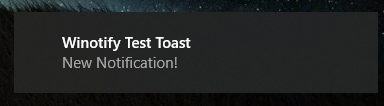
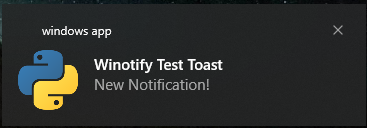
update readme and documentation

Changed region(s): [[0.0, 0.0, 1.0, 0.9906], [0.0899, 0.1981, 0.3297, 0.3113], [0.8992, 0.1981, 0.9591, 0.283]]

diff --git a/winotify/__init__.py b/winotify/__init__.py
@@ -1,6 +1,5 @@
 """
-A pure python module to show notification toast on Windows 10.
-.. include:: ../readme.md
+.. include:: ./documentation.md
 """
 
 
@@ -19,7 +18,7 @@ from winotify._communication import Listener, Sender
 
 __author__ = "Versa Syahputra"
 __version__ = "1.1.0-dev"
-__all__ = ["Notifier", "Notification", "Registry", "audio", "PY_EXE", "PYW_EXE"]
+__all__ = ["Notifier", "Notification", "Registry", "audio"]
 
 
 TEMPLATE = r"""
@@ -285,7 +284,7 @@ class Notifier:
         Otherwise, all the callback function will never get called.
 
         Examples:
-            ```
+            ```python
             if __name__ == "__main__":
                 notifier.start()
                 ...
@@ -306,7 +305,7 @@ class Notifier:
         If all callback functions don't need to run in main thread, calling this functions is *optional*
 
         Examples:
-            ```
+            ```python
             # the main loop
             while True:
                 notifier.update()
@@ -347,7 +346,7 @@ class Notifier:
             run_in_main_thread: If True, the callback function will run in main thread
 
         Examples:
-            ```
+            ```python
             @notifier.register_callback
             def foo(): ...
             ```

diff --git a/winotify/_registry.py b/winotify/_registry.py
@@ -6,8 +6,20 @@ HKEY = winreg.HKEY_CURRENT_USER
 SUBKEY = r"SOFTWARE\Classes\{}"
 SHELLKEY = r"shell\open\command"
 
-PY_EXE = path.join(path.dirname(sys.executable), "python.exe")
-PYW_EXE = path.join(path.dirname(sys.executable), "pythonw.exe")
+
+class P:
+    def __init__(self, p, s):
+        self.p, self.s = p, s
+
+    def __repr__(self): return self.s
+    def __str__(self): return self.p
+
+
+# path to python.exe
+PY_EXE = P(path.join(path.dirname(sys.executable), "python.exe"), "PY_EXE")
+# path to pythonw.exe
+PYW_EXE = P(path.join(path.dirname(sys.executable), "pythonw.exe"), "PYW_EXE")
+
 
 
 class InvalidKeyStructure(Exception): pass

diff --git a/winotify/documentation.md b/winotify/documentation.md
@@ -1,0 +1,97 @@
+# What is winotify?
+winotify is a python library and a command-line application to 
+make Windows 10 toast notification.
+
+# Features
+
+* Notification stays in action center
+* Clickable notification with 5 additional buttons
+* Use function as a callback when clicking the notification
+
+# Installation
+Install winotify using pip
+
+```sh
+pip install winotify
+```
+
+# Example
+## A simple notification with icon
+```python
+from winotify import Notification
+
+toast = Notification(app_id="example app",
+                     title="Winotify Test Toast",
+                     msg="New Notification!",
+                     icon=r"C:\path\to\icon.png")
+
+toast.show()
+```
+
+# How to ...
+## ... add buttons to the notification
+```python
+from winotify import Notification, audio
+
+toast = Notification(...)
+toast.add_actions(label="open github",
+                 launch="https://github.com/versa-syahptr/winotify/")
+```
+## ... set sound of the notification
+
+```python
+from winotify import Notification, audio
+
+toast = Notification(...)
+toast.set_audio(audio.Mail, loop=False)
+```
+ All supported audio are in the ```audio``` module
+
+## ... use callback feature
+this is an advanced feature of winotify. Please follow this guide carefully
+* Declare your app id, default interpreter, and script path globally
+```python
+import winotify
+
+r = winotify.Registry("app_id", winotify.PY_EXE, r"c:\abs\path\to\script.py")
+notifier = winotify.Notifier(r)
+```
+* Register a function to use as a callback using `Notifier.register_callback` decorator
+```python
+@notifier.register_callback
+def say_hello():
+    print("hello")
+```
+* Create new `Notification` using `Notifier.create_notification()` 
+then pass the registered function to `launch` parameter,
+```python
+toast = notifier.create_notification(title="a notification", 
+                                     msg='a notification test with callback',
+                                     launch=say_hello)
+
+# or pass it to `Notification.add_actions()`
+
+toast.add_actions(label="say hello in console",
+                  launch=say_hello)
+```
+* Start the notifier thread
+```python
+if __name__ == '__main__':
+    notifier.start()
+```
+
+# Command-line Application
+```batch
+winotify.exe ^
+-id myApp ^
+-t "A Title" ^
+-m "A message" ^
+-i "c:\path\to\icon.png" ^
+--audio default ^
+--open-url "http://google.com" ^
+--action "open github" ^
+--action_url "http://github.com"         
+```
+
+> Use `winotify-nc.exe` instead of `winotify.exe` to hide the console window.
+

diff --git a/README.md b/README.md
@@ -1,6 +1,9 @@
 # Winotify
 A pure python module to show notification toast on Windows 10.
 
+No dependencies, no requirements, all you need is PowerShell installed on your machine 
+(which in every Windows computer have it).
+
 ## Installation
 Install winotify using pip
 
@@ -8,20 +11,24 @@ Install winotify using pip
 pip install winotify
 ```
 
-## Changelog
-see [changelog](https://github.com/versa-syahptr/winotify/blob/master/CHANGELOG.md)
+## Features
+
+* Notification stays in action center
+* Clickable notification with 5 additional buttons
+* Use function as a callback when clicking the notification
 
 ## Usage
 
-#### A simple title and text notification
+### A simple notification with icon
 ```python
 from winotify import Notification
 
-toast = Notification(app_id="example app",
+toast = Notification(app_id="windows app",
                      title="Winotify Test Toast",
-                     msg="New Notification!")
+                     msg="New Notification!",
+                     icon=r"c:\path\to\icon.png")
 
-toast.build().show()
+toast.show()
 ```
 
 **Result:**
@@ -32,19 +39,12 @@ toast.build().show()
 
 ![image2](https://github.com/versa-syahptr/winotify/blob/master/image/winotify%20ss2.png?raw=true)
 
-#### Show notification with icon
-```python
-from winotify import Notification
-
-toast = Notification(icon=r"c:\path\to\icon.png"
-                    ...)
-```
 > Note that the icon path must be **absolute** otherwise 
 the notification will not show
 
-#### Set sound of the notification
+### Set sound of the notification
 
-All supported audio are in the ```audio``` class
+All supported audio are in the ```audio``` module
 
 ```python
 from winotify import Notification, audio
@@ -53,13 +53,14 @@ toast = Notification(...)
 toast.set_audio(audio.Mail, loop=False)
 ```
 
-#### Add action button
+### Add action button
 
 ```python
 from winotify import Notification
 
 toast = Notification(...)
-toast.add_actions(label="Button text")
+toast.add_actions(label="Button text", 
+                  launch="https://github.com/versa-syahptr/winotify/")
 ```
 > You can add up to 5 buttons each notification
 
